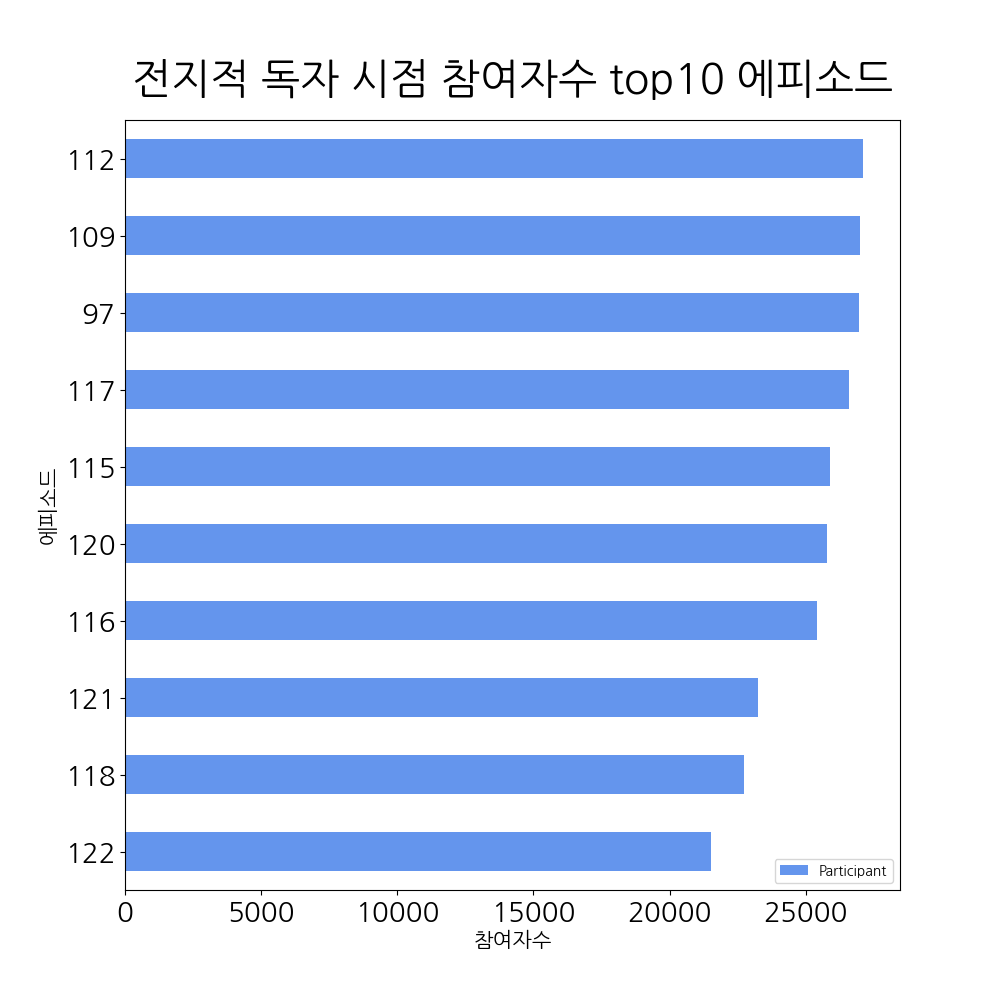
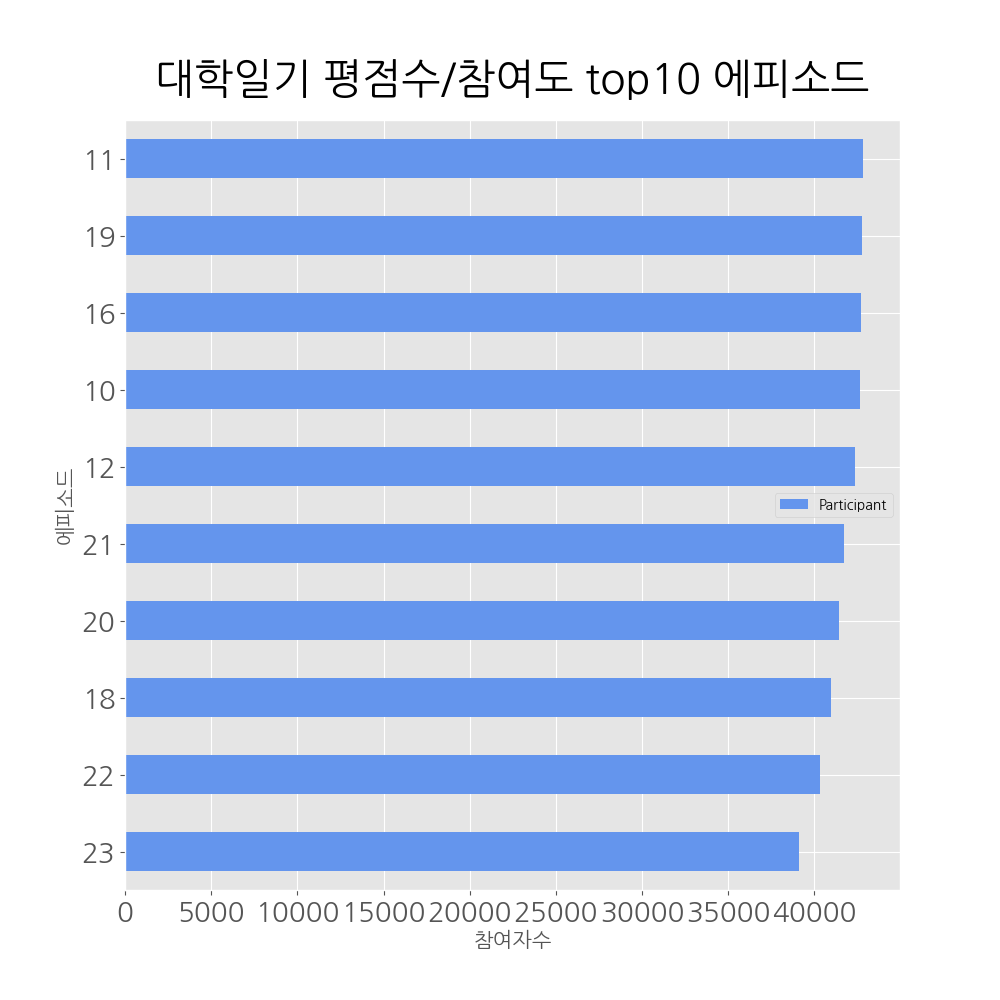
코멘트 수정

diff --git a/웹서비스/webtoonitda/templates/webtoonitda/service_summary.html b/웹서비스/webtoonitda/templates/webtoonitda/service_summary.html
@@ -26,8 +26,8 @@
                 <div class="alert alert-info">
                     <button type="button"></button>
                     <h4><strong>전체 댓글수 추이</strong></h4> <a
-                        href="{% url 'webtoonitda:show_num_reviews' lang platform webtoon %}" class="alert-link">전체
-                    에피소드의 댓글수를 분석합니다.</a>
+                        href="{% url 'webtoonitda:show_num_reviews' lang platform webtoon %}"
+                        class="alert-link">전체 에피소드의 댓글수를 분석합니다(한글,영어)</a>
                 </div>
             </div>
             <div class="col-6">
@@ -35,7 +35,7 @@
                     <button type="button"></button>
                     <h4><strong>댓글수 에피소드 Top10</strong></h4> <a
                         href="{% url 'webtoonitda:show_best_episodes_by_reviews' lang platform webtoon %}"
-                        class="alert-link">댓글수가 가장 많은 에피소드 Top10을 보여줍니다.</a>
+                        class="alert-link">댓글수가 가장 많은 에피소드 Top10을 보여줍니다(한글)</a>
                 </div>
             </div>
         </div>
@@ -45,48 +45,28 @@
             <div class="col-6">
                 <div class="alert alert-info">
                     <button type="button"></button>
-                    <h4><strong>전체 평점수 추이</strong></h4> <a
+                    <h4><strong>전체 평점수/참여도 추이</strong></h4> <a
                         href="#!" class="alert-link">
-                    전체 에피소드의 평점수를 분석합니다.곧 서비스 예정입니다.</a>
+                    전체 에피소드의 평점수/참여도를 분석합니다.곧 서비스 예정입니다.</a>
                 </div>
             </div>
             <div class="col-6">
                 <div class="alert alert-info">
                     <button type="button"></button>
-                    <h4><strong>평점수 에피소드 Top10</strong></h4> <a
+                    <h4><strong>평점수/참여도 에피소드 Top10</strong></h4> <a
                         href="{% url 'webtoonitda:show_best_episodes_by_points' lang platform webtoon %}"
-                        class="alert-link">평점수가 가장 높은 에피소드 Top10을 보여줍니다.곧 서비스 예정입니다.</a>
+                        class="alert-link">평점수/참여도가 가장 높은 에피소드 Top10을 보여줍니다(동적서비스)</a>
                 </div>
             </div>
         </div>
 
-        <div class="row">
-            <div class="col-6">
-                <div class="alert alert-info">
-                    <button type="button"></button>
-                    <h4><strong>전체 참여도 추이</strong></h4> <a
-                        href="#!" class="alert-link">
-                    전체 에피소드의 참여도를 분석합니다.곧 서비스 예정입니다.</a>
-                </div>
-            </div>
-            <div class="col-6">
-                <div class="alert alert-info">
-                    <button type="button"></button>
-                    <h4><strong>참여도 에피소드 Top10</strong></h4> <a
-                        href="#!"
-                        class="alert-link">참여도가 가장 높은 에피소드 Top10을 보여줍니다.곧 서비스 예정입니다.</a>
-                </div>
-            </div>
-        </div>
-
-
-        <div class="row">
+         <div class="row">
             <div class="col-6">
                 <div class="alert alert-info">
                     <button type="button"></button>
                     <h4><strong>댓글 원본 추출</strong></h4> <a
                         href="{% url 'webtoonitda:ep_review'%}" class="alert-link">
-                    검색어를 입력하면 댓글 원본을 추출합니다.</a>
+                    검색어를 입력하면 댓글 원본을 추출합니다(동적서비스)</a>
                 </div>
             </div>
             <div class="col-6">
@@ -94,7 +74,7 @@
                     <button type="button"></button>
                     <h4><strong>전체 중요 키워드 Top10</strong></h4> <a
                         href="{% url 'webtoonitda:show_keywords' lang platform webtoon %}"
-                        class="alert-link">전체 댓글에서 가장 많이 등장한 중요한 단어 Top10을 보여줍니다.</a>
+                        class="alert-link">전체 댓글에서 가장 많이 등장한 중요한 단어 Top10을 보여줍니다</a>
                 </div>
             </div>
         </div>
@@ -106,7 +86,7 @@
                     <button type="button"></button>
                     <h4><strong>단어간 유사도 측정</strong></h4> <a
                         href="{% url 'webtoonitda:show_similarity' %}" class="alert-link">
-                    두 개의 단어간의 유사도를 측정합니다.</a>
+                    두 개의 단어간의 유사도를 측정합니다</a>
                 </div>
             </div>
             <div class="col-6">
@@ -114,7 +94,7 @@
                     <button type="button"></button>
                     <h4><strong>Topic별 유사 단어 추출</strong></h4> <a
                         href="{% url 'webtoonitda:show_topic_keywords' lang platform webtoon %}"
-                        class="alert-link">Topic별로 문맥에 관련된 단어들을 추출합니다.</a>
+                        class="alert-link">Topic별로 문맥에 관련된 단어들을 추출합니다</a>
                 </div>
             </div>
         </div>

diff --git a/웹서비스/webtoonitda/templates/webtoonitda/show_num_reviews.html b/웹서비스/webtoonitda/templates/webtoonitda/show_num_reviews.html
@@ -11,9 +11,10 @@
             <h2> 에피소드별 댓글 추이</h2>
             {% if lang == 'kr' %}
             <h5> 한글 , {{platform}} , {{webtoon}} 분석 결과입니다.  </h5>
-            <li> 한글독자와 영어독자들 사이의 댓글 개수가 에피소드마다 유사합니다.  </li>
-            <li> 한글독자들이 더 많은 댓글을 작성하였습니다. </li>
-            <li> 한글 영어 모두 시간이 지나면서 에피소드에 대한 댓글 수가 감소합니다. </li>
+            <li> 한글 웹툰과 영어 웹툰 사이의 댓글 추이가 대체로 유사합니다.  </li>
+            <li> 한글 독자들이 더 많은 댓글을 작성하고 있습니다.</li>
+            <li> 한글 영어 모두 시간이 지나면서 에피소드에 대한 댓글수가 감소합니다. </li>
+            <li> 특정 에피소드(40화)의 경우 댓글수가 갑자기 증가하였습니다.</li>
 
             {% elif lang == 'en' %}
             <h5> 영어 , {{platform}} , {{webtoon}} 분석 결과입니다.</h5>

diff --git a/웹서비스/webtoonitda/templates/webtoonitda/show_best_episodes_by_points.html b/웹서비스/webtoonitda/templates/webtoonitda/show_best_episodes_by_points.html
@@ -3,8 +3,8 @@
 {% block content %}
 
 <style>
-    .background{
-<!--    background-color: gray;-->
+    div.background{
+    font-size: 20px;
 }
 
 </style>
@@ -13,7 +13,7 @@
 <div class="container my-3">
     <div class="row my-3">
         <div class="col-6">
-            <h2> 평점수 인기 에피소드 순위 top 10</h2>
+            <h3> 평점수/참여도 인기 에피소드 순위 top 10</h3>
             {% if lang == 'kr' %}
             <h5> 한글 , {{platform}} , {{webtoon}} 분석을 시작합니다.</h5>
             {% elif lang == 'en' %}
@@ -31,7 +31,7 @@
 
 
 <div class="background">
-    {{ df|safe}}
+{{df | safe}}
 </div>
 <div>
     <img src="/media/kr/generated.png"/>

diff --git a/웹서비스/webtoonitda/webtoonitda/views/naver_webtoon.py b/웹서비스/webtoonitda/webtoonitda/views/naver_webtoon.py
@@ -383,7 +383,7 @@ def show_best_by_points(top10, filepath, webtoon):
     """
     top10.plot(kind='barh', color='cornflowerblue', width=0.5, figsize=(10, 10), fontsize=20)
     plt.style.use('ggplot')
-    plt.title( webtoon +' 참여자수 top10 에피소드', fontsize=30, loc='center', pad=20)
+    plt.title( webtoon +' 평점수/참여도 top10 에피소드', fontsize=30, loc='center', pad=20)
 
     plt.xlabel('참여자수', size=15)
     plt.ylabel('에피소드', size=15)

diff --git a/웹서비스/webtoonitda/webtoonitda/urls.py b/웹서비스/webtoonitda/webtoonitda/urls.py
@@ -18,6 +18,7 @@ urlpatterns = [
 
     path('show_keywords/<str:lang>/<str:platform>/<str:webtoon>', base_views.show_keywords, name="show_keywords"),
     path('show_topic_keywords/<str:lang>/<str:platform>/<str:webtoon>', base_views.show_topic_keywords, name="show_topic_keywords"),
+    path('episode_page', base_views.episode_page, name="episode_page"),
     path('show_similarity', base_views.show_similarity, name="show_similarity"),
 
 #윤지 작성
